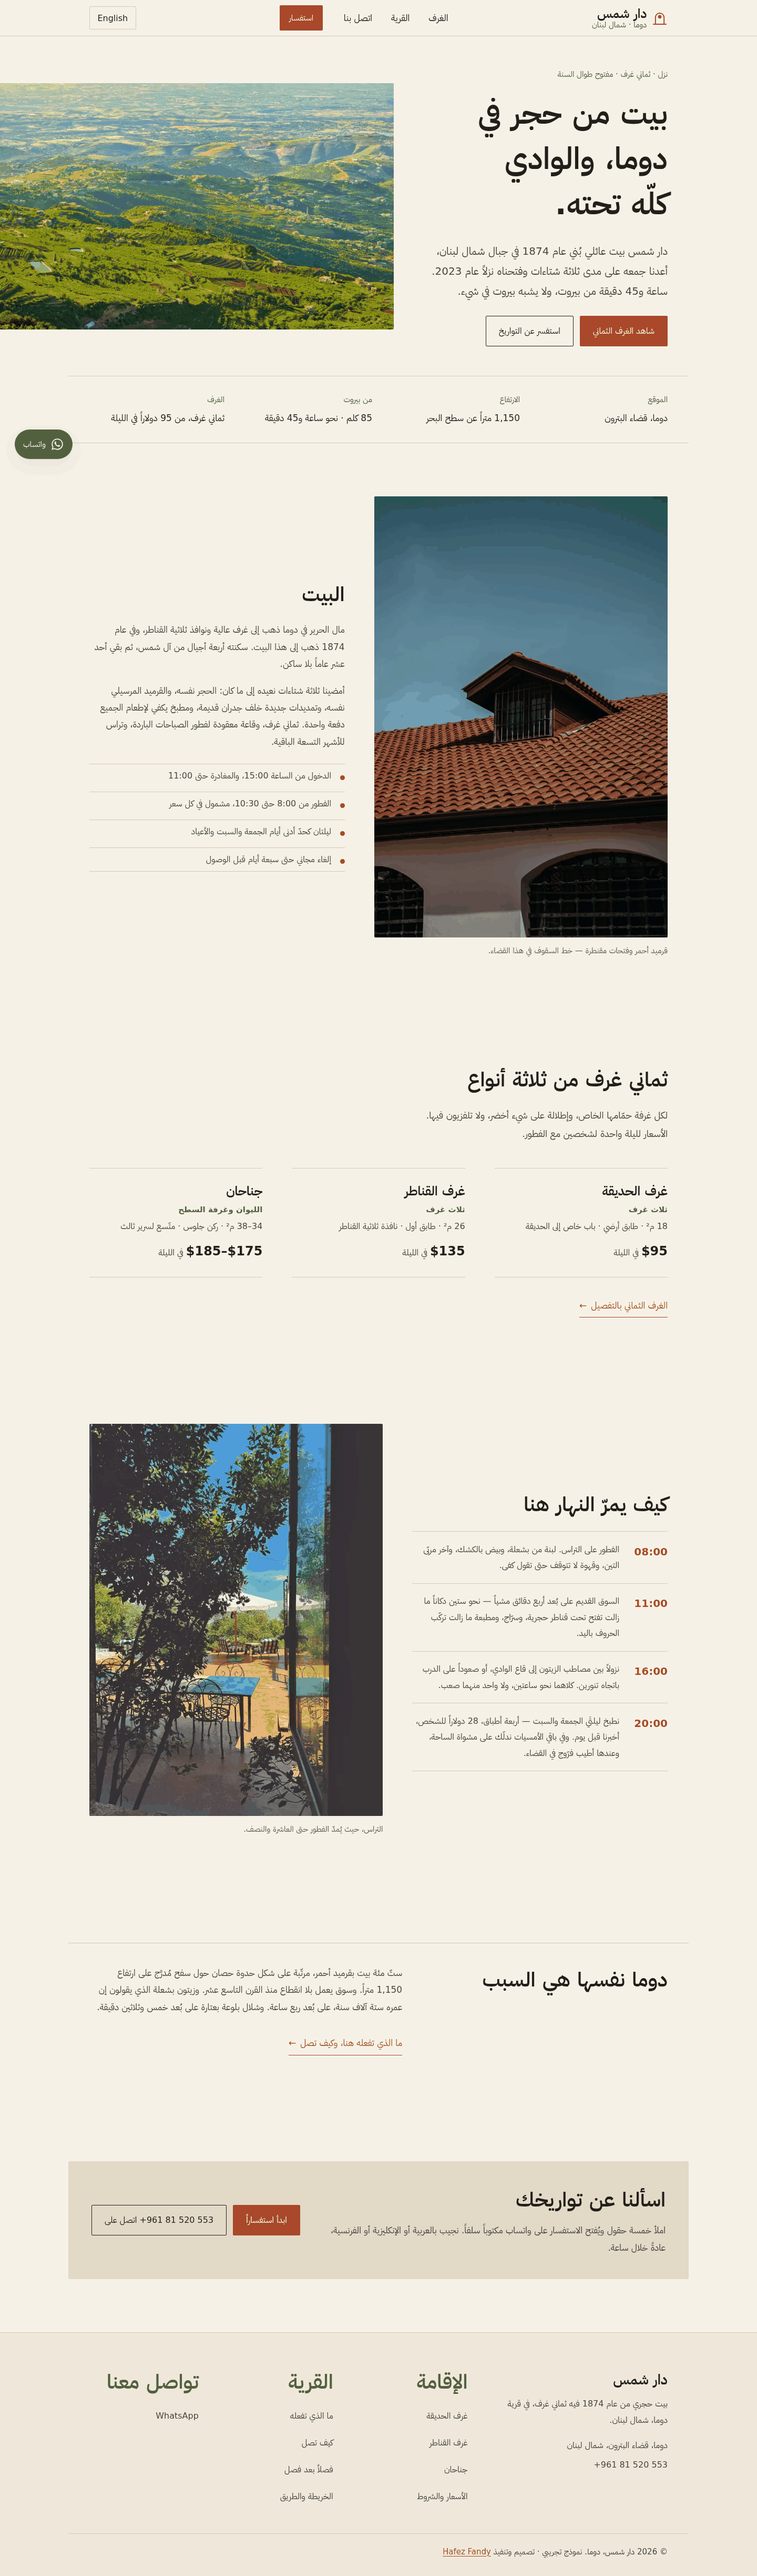
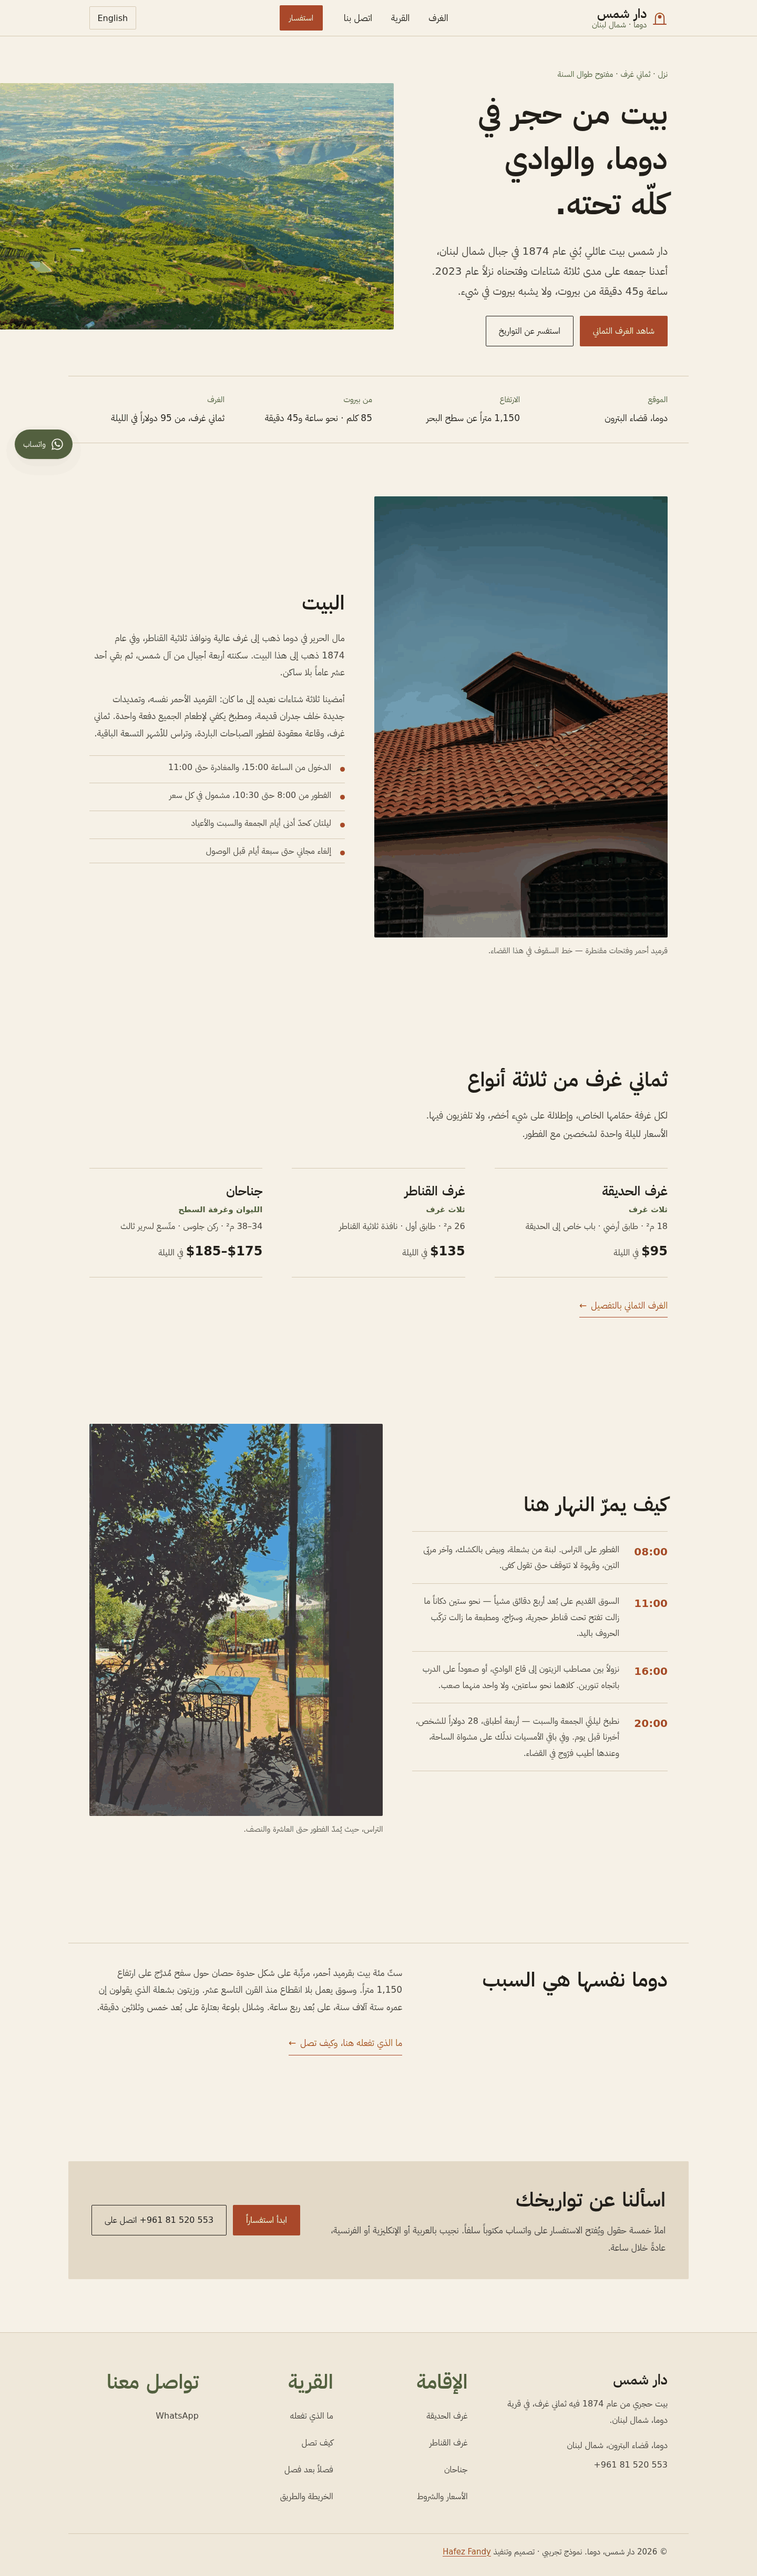
Drop the two material claims no photograph supports
The home page paragraph read "the same limestone, the same red tiles from
Marseille". The one roof photograph shows curved barrel tiles, not flat
interlocking Marseille tiles, and the wall beneath them is white render rather
than coursed limestone. Both claims are removed, in English and Arabic; "the
same red tiles" stays, because the photograph does support that.

Also fixes a stale og:image:alt on the contact page that still described the
deleted illustration — the other three pages were updated with the photography
and that one was missed. All four now describe the aerial that is actually the
social card.

Left alone: "a limestone bridge" on the village page describes the Baatara
gorge, which is a real karst formation and has nothing to do with the house's
masonry.

Claude-Session: https://claude.ai/code/session_01SCQsgU5iMN98YFv1UVqhFR

Changed region(s): [[0.125, 0.2174, 0.4688, 0.3416]]

diff --git a/js/i18n.js b/js/i18n.js
@@ -64,7 +64,7 @@ window.DC_STRINGS = {
 
     "home.house.h2": "البيت",
     "home.house.p1": "مال الحرير في دوما ذهب إلى غرف عالية ونوافذ ثلاثية القناطر، وفي عام 1874 ذهب إلى هذا البيت. سكنته أربعة أجيال من آل شمس، ثم بقي أحد عشر عاماً بلا ساكن.",
-    "home.house.p2": "أمضينا ثلاثة شتاءات نعيده إلى ما كان: الحجر نفسه، والقرميد المرسيلي نفسه، وتمديدات جديدة خلف جدران قديمة، ومطبخ يكفي لإطعام الجميع دفعة واحدة. ثماني غرف، وقاعة معقودة لفطور الصباحات الباردة، وتراس للأشهر التسعة الباقية.",
+    "home.house.p2": "أمضينا ثلاثة شتاءات نعيده إلى ما كان: القرميد الأحمر نفسه، وتمديدات جديدة خلف جدران قديمة، ومطبخ يكفي لإطعام الجميع دفعة واحدة. ثماني غرف، وقاعة معقودة لفطور الصباحات الباردة، وتراس للأشهر التسعة الباقية.",
     "home.house.alt": "سقف من القرميد الأحمر المقوَّس في مواجهة سماء زرقاء عميقة، وفيه نافذة سطح صغيرة، وتحته فتحتان مقنطرتان في الجدار.",
     "home.house.caption": "قرميد أحمر وفتحات مقنطرة — خط السقوف في هذا القضاء.",
     "home.house.t1": "الدخول من الساعة 15:00، والمغادرة حتى 11:00",

diff --git a/index.html b/index.html
@@ -124,7 +124,7 @@ if('IntersectionObserver' in window && !matchMedia('(prefers-reduced-motion: red
       <div class="split__body">
         <h2 data-i18n="home.house.h2">The house</h2>
         <p data-i18n="home.house.p1">Douma's silk money went into tall rooms and triple-arched windows, and in 1874 it went into this one. Four generations of the Chams family lived here; then, for eleven years, nobody did.</p>
-        <p data-i18n="home.house.p2">We spent three winters putting it back — the same limestone, the same red tiles from Marseille, new plumbing behind old walls, and a kitchen big enough to feed everyone at once. Eight rooms, a vaulted breakfast room for cold mornings, a terrace for the other nine months.</p>
+        <p data-i18n="home.house.p2">We spent three winters putting it back — the same red tiles, new plumbing behind old walls, and a kitchen big enough to feed everyone at once. Eight rooms, a vaulted breakfast room for cold mornings, a terrace for the other nine months.</p>
         <ul class="ticks">
           <li data-i18n="home.house.t1">Check-in from 15:00, check-out by 11:00</li>
           <li data-i18n="home.house.t2">Breakfast 8:00–10:30, included in every rate</li>

diff --git a/contact.html b/contact.html
@@ -17,7 +17,7 @@
 <meta property="og:image" content="https://hafez121.github.io/dar-chams/img/og-cover.jpg">
 <meta property="og:image:width" content="1200">
 <meta property="og:image:height" content="630">
-<meta property="og:image:alt" content="Douma at dusk: limestone houses with red tile roofs on a terraced slope.">
+<meta property="og:image:alt" content="Terraced hillsides above the Batroun valley in late afternoon light, orchards and villages stepping down towards the haze.">
 <meta name="twitter:card" content="summary_large_image">
 <meta name="twitter:title" content="Contact and enquiries — Dar Chams, Douma">
 <meta name="twitter:description" content="Enquire on WhatsApp, find the phone number, and see the road up from Beirut.">

diff --git a/HANDOFF.md b/HANDOFF.md
@@ -24,22 +24,21 @@ illustration has been deleted. Three things remain:
 
 The site makes specific visual claims. Most have no photograph behind them,
 which is fine. These are the ones where a photograph is now adjacent to a claim
-it does not support. **None of the copy has been changed** — that is the
-owner's call, not mine.
+it does not support. Two of them have since been closed by the owner's decision:
+"from Marseille" and "the same limestone" were dropped from the home page
+paragraph, in both languages. What is left below are claims with no photograph
+behind them, which is not the same thing as a contradiction.
 
 | Claim | Where | What the photograph shows |
 |---|---|---|
-| "the same red tiles from Marseille" | home, *The house* | `roof-tiles` shows curved barrel tiles. Marseille tiles are flat and interlocking with a distinct double-groove profile. These are not those. |
-| "the same limestone" | home, *The house*, directly beside the photograph | The wall under that roof is white render, not coursed limestone. No photograph in the set shows limestone masonry. |
 | "triple-arched windows" | home and rooms, repeatedly | The only arches in the set are the two round-headed openings in `roof-tiles`. Nothing shows a triple arch. |
 | "olive-green shutters" | previously in the home alt text, now removed | `shutters` shows natural varnished wood. The alt text was rewritten to match; the claim no longer appears anywhere in the copy. |
 | "six hundred houses with red roofs" | home teaser and the village page H1 | `valley-road` shows a village of modern white buildings. This is why it is on *Getting here* and not under either of those lines, and why the village page head now carries no photograph at all. |
 
-Three ways to close the gap: change the copy, get photographs that support it,
-or leave both as they are and accept that a careful reader may notice. The
-cheapest honest fix is to drop "from Marseille" and "the same limestone" from
-the one paragraph on the home page; everything else is a claim without a
-picture, which is not a contradiction.
+The paragraph now reads "the same red tiles", which the photograph does
+support. The triple arch remains a claim with no picture behind it: fine as it
+stands, and worth a photograph if one ever turns up. Nothing else needs a
+decision.
 
 ## Sections that now carry no photograph
 
